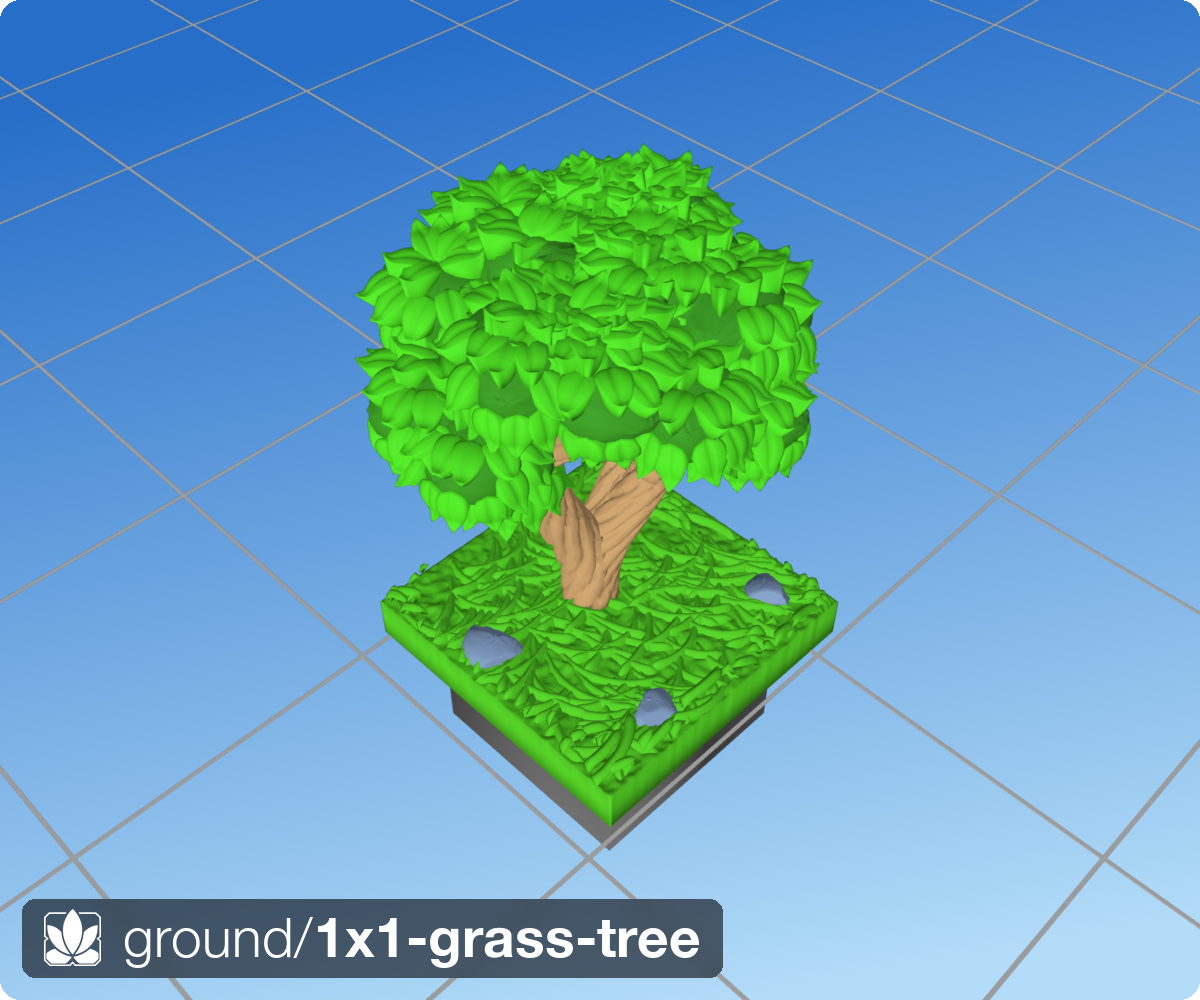
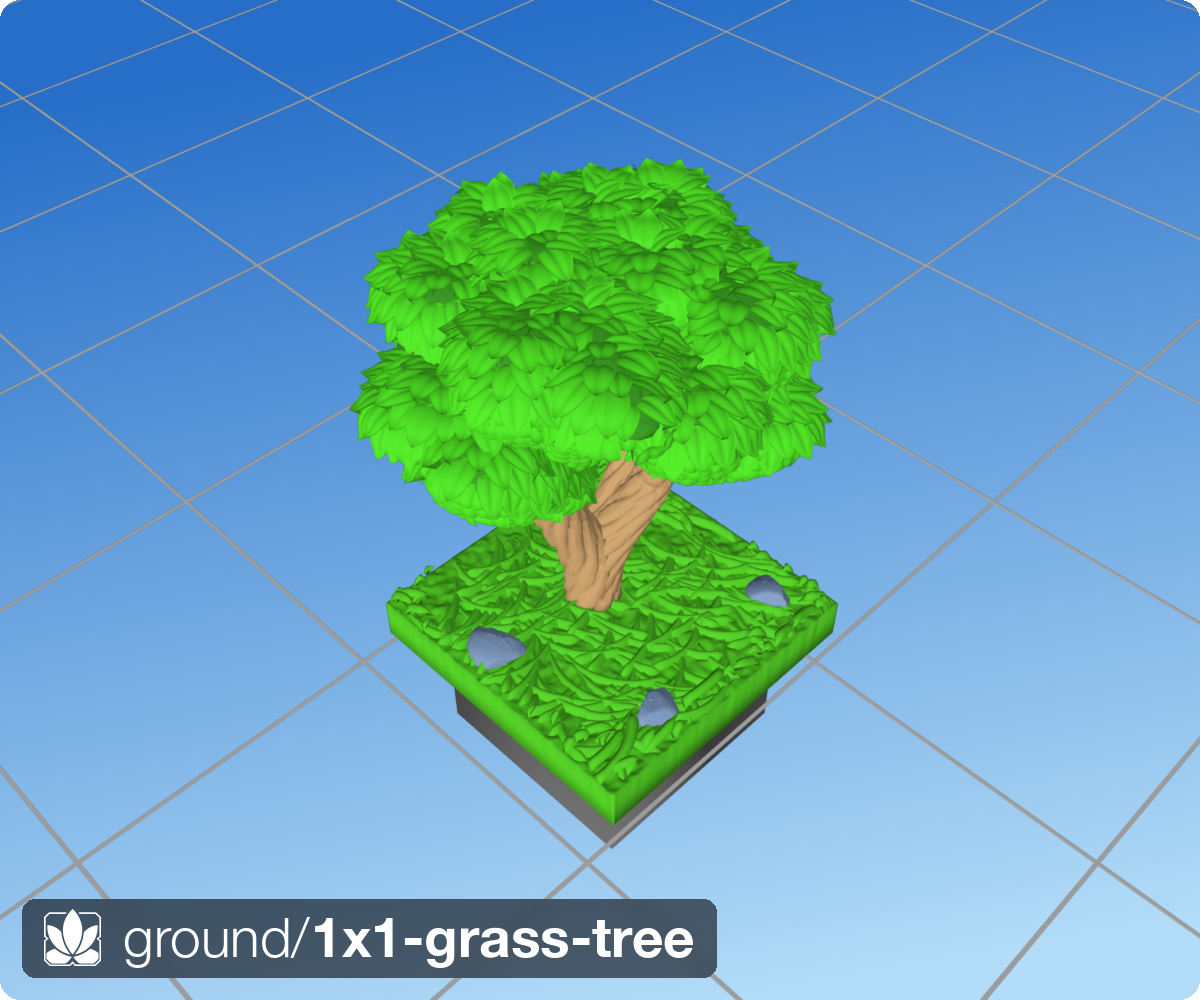
Organic iteration 6: underside arch blades, tip-aware escalation, tiles
- New arch_mm blade parameter: parabolic end-to-end lengthwise arch
  (4*s*(1-s)) applied post-build along the seat normal.  Flush/underside
  blades are now arch-only (curl 0, lift 0, 0.8mm mid-span): an arch can
  never re-enter the surface between its endpoints, where curl kept
  burying mid-blades in convex underside lobes.
- tuck_tip: flush blades pitch about their anchored base until the tip
  TOUCHES the clump (+0.02mm, not embedded) - kills FDM floating-island
  tips without dragging the mid-blade below the skin.
- Standoff escalation counts only POINT-END conflicts (tip within 1.5mm
  of another leaf's base-end/centre/tip); base-to-base nestling no
  longer propagates height, collapsing the long-neck chains.
- leaf_placement="organic" wired into all three tree tiles; Tree layer
  validator accepts meridian/greedy/shoots/organic.

diff --git a/src/dharmatiles/trees/placement_organic.py b/src/dharmatiles/trees/placement_organic.py
@@ -112,8 +112,15 @@ _ORGANIC_SHINGLE_CAP_MM: float = 1.2
 _ORGANIC_SHINGLE_NEIGHBOR_MM: float = 2.4
 _ORGANIC_STANDOFF_JITTER_MM: float = 0.05
 
-# Flush-blade shape overrides (the "less fancy" leaf).
-_ORGANIC_FLUSH_CURL_DEG: float = 12.0
+# Flush-blade shape overrides.  The flush blade is a pure end-to-end ARCH:
+# no curl, no lift — a parabolic rise (arch_mm at mid-span) between ends
+# that touch/tuck.  On a convex underside lobe a flat blade pinned at both
+# ends chords THROUGH the bulge (~0.5 mm sag over a 4.5 mm blade at
+# r≈5.5); the arch clears it, and unlike curl it can never bend back into
+# the surface.
+_ORGANIC_FLUSH_CURL_DEG: float = 0.0
+_ORGANIC_FLUSH_LIFT_MM: float = 0.0
+_ORGANIC_FLUSH_ARCH_MM: float = 0.8
 
 # Pitched-blade curl override: the configured 40° curl made every blade a
 # curling tongue that presents its EDGE (shaggy canopy); the AC read wants
@@ -127,6 +134,11 @@ _ORGANIC_MAX_NECK_MM: float = 1.8
 
 # Skew cap for pitched blades (fraction of leaf length).
 _ORGANIC_MAX_SKEW_FRAC: float = 0.35
+
+# Point-end conflict radius for the standoff escalation: a leaf's TIP
+# within this of another leaf's base-end/centre/tip is a real overlap;
+# base-to-base nestling is not.
+_ORGANIC_TIP_CONFLICT_MM: float = 1.5
 
 # ── Sheet solidification (EXPERIMENT PARKED — not wired) ──
 # Each leaf is a thin SHEET: the blade surface, a bottom surface offset by
@@ -241,22 +253,32 @@ def _direction_field_angle(p: np.ndarray, seed: int) -> float:
 # ── Shingle standoff ──────────────────────────────────────────────────────────
 
 def _shingle_standoffs(
-    bases: np.ndarray, src_idx: np.ndarray, meshes: list, seed: int,
+    bases: np.ndarray, dirs: np.ndarray, L: float, seed: int,
 ) -> np.ndarray:
-    """Per-root standoff (mm): height-sorted accumulation, capped.
+    """Per-root standoff (mm): height-sorted accumulation over TIP conflicts.
 
-    Bottom-up over ALL leaves: each stands off ``STEP`` more than the
-    tallest already-processed leaf it overlaps (neighbourhood radius
-    ``_ORGANIC_SHINGLE_NEIGHBOR_MM``), clamped to ``CAP``.  Overlapping
-    leaves at different heights therefore differ by a full STEP until the
-    cap; at the cap the tip lift resolves the remaining tip-over-base
-    contacts.  Monotone in processing order ⇒ never inverts.
+    Bottom-up over all leaves: each stands off ``STEP`` more than the
+    tallest already-processed leaf it has a POINT-END conflict with,
+    clamped to ``CAP``.  A conflict exists only when one leaf's TIP comes
+    near the other leaf's body (base-end, centre, or tip) — base-end to
+    base-end adjacency is harmless nestling and must NOT propagate height,
+    or the escalation runs away and every stitch neck stretches.
     """
-    del src_idx, meshes
     n = len(bases)
     out = np.zeros(n)
+    tips = bases + 0.45 * L * dirs
+    tails = bases - 0.45 * L * dirs
     d = _ORGANIC_SHINGLE_NEIGHBOR_MM
-    d2 = d * d
+    r2 = _ORGANIC_TIP_CONFLICT_MM ** 2
+
+    def _tip_conflict(i: int, j: int) -> bool:
+        for a, b in ((i, j), (j, i)):
+            ta = tips[a]
+            for pt in (tails[b], bases[b], tips[b]):
+                if float(((ta - pt) ** 2).sum()) < r2:
+                    return True
+        return False
+
     cells: dict[tuple[int, int, int], list[int]] = {}
     for i in np.argsort(bases[:, 2], kind="stable"):
         p = bases[i]
@@ -266,7 +288,7 @@ def _shingle_standoffs(
             for dy in (-1, 0, 1):
                 for dz in (-1, 0, 1):
                     for j in cells.get((c[0] + dx, c[1] + dy, c[2] + dz), ()):
-                        if float(((p - bases[j]) ** 2).sum()) < d2:
+                        if _tip_conflict(int(i), j):
                             tallest = max(tallest, float(out[j]))
         base_so = 0.0 if tallest < 0.0 else tallest + _ORGANIC_SHINGLE_STEP_MM
         out[i] = (
@@ -416,15 +438,25 @@ def place_leaves_organic(
             src_idx[take] = mi
             assigned |= ins
 
+    # Per-root growth directions (needed by the standoff pass: escalation
+    # only propagates through point-end conflicts, which depend on where
+    # each leaf's TIP lands).
+    dirs_leaf = np.zeros((n_roots, 3))
+    for i in range(n_roots):
+        T0 = _growth_tangent(root_nrm[i], bases[i], centroid)
+        dirs_leaf[i] = _safe_norm(_rotate_about(
+            T0, root_nrm[i], _direction_field_angle(bases[i], seed0),
+        ))
+
     standoffs = (
-        _shingle_standoffs(bases, src_idx, meshes, seed0)
+        _shingle_standoffs(bases, dirs_leaf, L, seed0)
         if n_roots else np.zeros(0)
     )
 
     # Flush-blade variant for the downward zone (see zone constants).
     leaf_kw_flush = dict(
         leaf_kw,
-        lift_mm  = 0.0,
+        lift_mm  = _ORGANIC_FLUSH_LIFT_MM,
         curl_deg = _ORGANIC_FLUSH_CURL_DEG,
     )
 
@@ -433,9 +465,7 @@ def place_leaves_organic(
         base = bases[i]
         nrm = root_nrm[i]
         flush = float(nrm[2]) < _ORGANIC_PITCH_NORMAL_Z
-        T0 = _growth_tangent(nrm, base, centroid)
-        ang = _direction_field_angle(base, seed0)
-        T_leaf = _safe_norm(_rotate_about(T0, nrm, ang))
+        T_leaf = dirs_leaf[i]
         lseed = int(_hash01(seed0, "org-leaf", i) * 2 ** 31)
 
         src = int(src_idx[i])
@@ -477,6 +507,8 @@ def place_leaves_organic(
             max_skew_frac=_ORGANIC_MAX_SKEW_FRAC,
             max_neck_mm=_ORGANIC_MAX_NECK_MM,
             tuck_base=True,
+            tuck_tip=flush,
+            arch_mm=_ORGANIC_FLUSH_ARCH_MM if flush else 0.0,
         )
         if result is None:
             n_build_fail += 1

diff --git a/src/dharmatiles/trees/placement_shoots.py b/src/dharmatiles/trees/placement_shoots.py
@@ -260,6 +260,8 @@ def _attempt_leaf(
     max_skew_frac: float = 0.5,
     max_neck_mm: float | None = None,
     tuck_base: bool = False,
+    tuck_tip: bool = False,
+    arch_mm: float = 0.0,
 ):
     """Seat, build, and cull one leaf at a shoot station.
 
@@ -307,6 +309,22 @@ def _attempt_leaf(
         return None, "error"
     tip_idx = len(surf.vertices) - 1
     base_idx = len(surf.vertices) - 2
+
+    # End-to-end lengthwise ARCH (flush/underside blades): a parabolic
+    # offset 4·s·(1−s)·arch_mm along the seat normal.  Unlike curl (which
+    # bends the tip back down and can re-enter the surface) a pure arch
+    # only ever rises between its endpoints, so a blade whose ends touch a
+    # convex bulge clears it mid-span instead of chording through it.
+    if arch_mm > 0.0:
+        s_prof = np.zeros(len(surf.vertices))
+        s_ring = np.linspace(0.0, 1.0, _LEAF_N_LONG + 1)[1:-1]
+        stride = _LEAF_N_LAT + 1
+        for ri, sv in enumerate(s_ring):
+            s_prof[ri * stride:(ri + 1) * stride] = sv
+        s_prof[base_idx] = 0.0
+        s_prof[tip_idx] = 1.0
+        bulge = 4.0 * s_prof * (1.0 - s_prof) * arch_mm
+        surf.vertices = surf.vertices + bulge[:, np.newaxis] * normal
 
     skew_mm = 0.0
     # skip_skew: flush blade variants lie ON the substrate (walls under a
@@ -416,6 +434,47 @@ def _attempt_leaf(
                     + np.outer(V @ lat, lat) * (1.0 - c)
                 )
 
+    if tuck_tip:
+        # Bury the TIP: on underside-hugging (flush) blades even a gentle
+        # curl leaves the tip hanging in air below the blade — a floating
+        # island for FDM.  Pitch about the (embedded) base vertex until
+        # the tip dives slightly into the clump: the leaf becomes a
+        # relief-like arc with both ends rooted; nothing hangs.
+        tv = surf.vertices[tip_idx]
+        t_in = bool(mesh.contains(tv[np.newaxis])[0])
+        rd = normal if t_in else -normal
+        loc, ridx, _tt = mesh.ray.intersects_location(
+            tv[np.newaxis], rd[np.newaxis], multiple_hits=False,
+        )
+        if len(ridx):
+            tc = (-1.0 if t_in else 1.0) * float(np.linalg.norm(loc[0] - tv))
+            # Tip TOUCHES the surface — not buried.  An embedded target
+            # dragged the whole mid-blade below the skin on convex
+            # undersides (chord of a bulge lies inside it).
+            target = 0.02
+            pivot = surf.vertices[base_idx].copy()
+            r = float(np.linalg.norm(tv - pivot))
+            if tc > target and r > 1e-6:
+                theta = min(
+                    math.asin(min((tc - target) / r, 1.0)),
+                    math.radians(35.0),
+                )
+                lat = _safe_norm(np.cross(normal, tangent_leaf))
+                v0 = tv - pivot
+                for sgn in (1.0, -1.0):
+                    if float(np.dot(
+                        _rotate_about(v0, lat, sgn * theta) - v0, -normal,
+                    )) > 0.0:
+                        break
+                c = math.cos(sgn * theta)
+                sn = math.sin(sgn * theta)
+                V = surf.vertices - pivot
+                surf.vertices = pivot + (
+                    V * c
+                    + np.cross(np.broadcast_to(lat, V.shape), V) * sn
+                    + np.outer(V @ lat, lat) * (1.0 - c)
+                )
+
     curl_mask = np.linalg.norm(
         surf.vertices - surf.vertices[base_idx], axis=1,
     ) > (L / 2.0)
@@ -424,7 +483,9 @@ def _attempt_leaf(
         curl_idx = np.arange(len(surf.vertices))
     belly_idx = int(curl_idx[int(np.argmin(surf.vertices[curl_idx, 2]))])
     probe = surf.vertices[np.array([tip_idx, belly_idx])]
-    if _points_inside_any([mesh, *neighbour_meshes], probe, base, L):
+    # tuck_tip blades are INTENTIONALLY buried at both ends; the burial
+    # cull (and its bury-lift) would pop the tucked tip back out.
+    if not tuck_tip and _points_inside_any([mesh, *neighbour_meshes], probe, base, L):
         # bury_lift (organic placer): a probe dipping into the PARENT
         # surface — e.g. the tip curling under at a dome crown — is lifted
         # out along the seat normal instead of culled (a cull would leave a

diff --git a/src/dharmatiles/trees/layer.py b/src/dharmatiles/trees/layer.py
@@ -135,9 +135,10 @@ class Tree:
         self.leaf_arc_meridians    = int(leaf_arc_meridians)
         self.leaf_arc_z_samples    = int(leaf_arc_z_samples)
         leaf_placement = str(leaf_placement)
-        if leaf_placement not in ("meridian", "greedy"):
+        if leaf_placement not in ("meridian", "greedy", "shoots", "organic"):
             raise ValueError(
-                f"leaf_placement must be 'meridian' or 'greedy', got {leaf_placement!r}"
+                f"leaf_placement must be 'meridian', 'greedy', 'shoots' or "
+                f"'organic', got {leaf_placement!r}"
             )
         self.leaf_placement        = leaf_placement
         self.bark = BarkConfig() if bark is None else bark

diff --git a/src/tiles/water/1x1-grass-tree+water.tile.py b/src/tiles/water/1x1-grass-tree+water.tile.py
@@ -64,7 +64,7 @@ tile = Tile(
                     placement=Uniform(count_per_square=1),
                     n_attractors=64,
                     foliage_clusters=True,
-                    leaf_placement="greedy",
+                    leaf_placement="organic",
                     leaf_length_mm=4.5,
                     leaf_width_mm=3.0,
                     leaf_curl_deg=20.0,

diff --git a/src/tiles/ground/2x2-grass-tree.tile.py b/src/tiles/ground/2x2-grass-tree.tile.py
@@ -25,6 +25,7 @@ tile = Tile(
                     placement=Uniform(count_per_square=0.25),
                     debug_attractors=False,
                     foliage_clusters=True,
+                    leaf_placement="organic",
                     n_attractors=32,
                     leaf_length_mm=4.5,
                     leaf_width_mm=3.0,

diff --git a/src/tiles/ground/1x1-grass-tree.tile.py b/src/tiles/ground/1x1-grass-tree.tile.py
@@ -34,6 +34,7 @@ tile = Tile(
                     placement=Uniform(count_per_square=1),
                     n_attractors=32,
                     foliage_clusters=True,
+                    leaf_placement="organic",
                     leaf_length_mm=4.5,
                     leaf_width_mm=3.0,
                     leaf_h_overlap=0.1,

diff --git a/docs/meta/history/2026-07-02-foliage-greenfield-requirements.md b/docs/meta/history/2026-07-02-foliage-greenfield-requirements.md
@@ -307,3 +307,25 @@ leaves — the placement is really nice... wow. That's amazing!"
 Full tree: 2378 leaves, ~6 s.  The parked sheet-solidification idea
 (constants remain, unwired) stays available if the pillow read ever
 matters again.
+
+## Iteration 6 — underside printability + tip-aware escalation + tile wiring
+
+Shawn's two near-blockers before tile rollout:
+1. Underside flush blades left floating-island tips (curl bends the tip
+   into air below the blade).  Resolution converged over three rounds:
+   tuck_tip (pitch about the anchored base until the tip meets the clump),
+   then tip target changed from embedded to TOUCHING (+0.02 — an embedded
+   tip dragged the mid-blade below convex skins), and finally, per
+   Shawn's call, flush blades became a pure END-TO-END ARCH (new arch_mm
+   parameter: parabolic 4·s·(1−s) offset, 0.8 mm at mid-span; curl and
+   lift zeroed).  An arch can never re-enter the surface between its
+   endpoints, where curl always could.  Underside close-up now shows
+   full distinct-leaf coverage with zero substrate cut-through.
+2. Long necks: standoff escalation now propagates ONLY through point-end
+   conflicts (tip within 1.5 mm of another leaf's base-end/centre/tip) —
+   Shawn's insight that base-to-base nestling is harmless and must not
+   drive height.
+
+leaf_placement="organic" wired into ground/1x1-grass-tree,
+ground/2x2-grass-tree, water/1x1-grass-tree+water (was greedy); Tree
+layer validator extended to all four placers.
